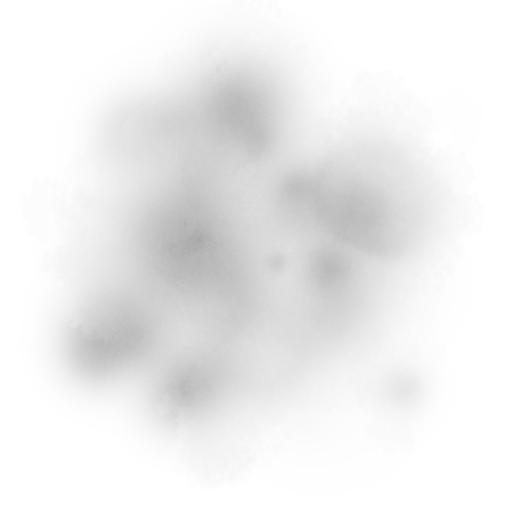
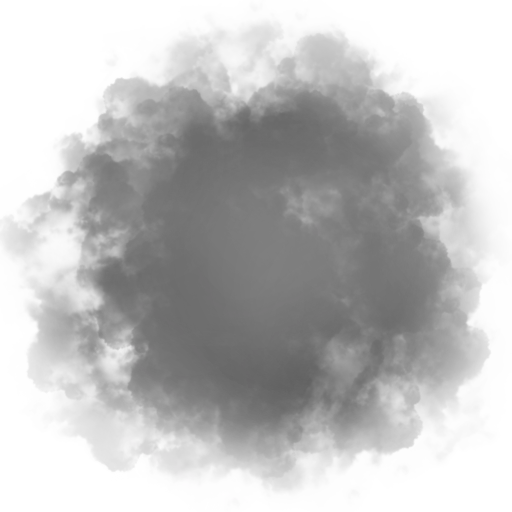
plume color by lifetime

diff --git a/code_plume/scenes/sources/smoke/smoke.cpp b/code_plume/scenes/sources/smoke/smoke.cpp
@@ -271,7 +271,7 @@ void scene_model::edit_smoke_layer_properties(unsigned int i, float& d_mass)
     float rho_new = mass_new/volume_new;
     float r_new = cbrt(volume_new/3.14);
     smoke_layers[i].thickness = r_new;
-    smoke_layers[i].lifespan -= dt;
+    smoke_layers[i].lifetime = smoke_layers[i].lifetime + dt;
 
 
     // new speed due to conservation of energy (old)
@@ -529,7 +529,7 @@ void scene_model::ground_falling_sphere_update(free_sphere_params& sphere, int i
 
     sphere.speed = v;
     sphere.center = p;
-    sphere.lifespan -= dt;
+    sphere.lifetime = sphere.lifetime + dt;
 
     if (!sphere.falling_disappeared) sphere_ground_collision(sphere, idx, frame_nb);
 }
@@ -882,7 +882,7 @@ void scene_model::update_free_spheres()
                 sphere_i.r = new_r;
                 sphere_i.relative_distance = norm(sphere_i.center-smoke_layers[closest_layer_id].center);
                 sphere_i.rho = smoke_layers[closest_layer_id].rho;
-                sphere_i.lifespan -= dt;
+                sphere_i.lifetime = sphere_i.lifetime + dt;
 
                 if (!sphere_i.stagnate && smoke_layers[closest_layer_id].theta >1)
                 {
@@ -1532,10 +1532,11 @@ void scene_model::display(std::map<std::string,GLuint>& shaders, scene_structure
             quad.uniform.transform.translation = new_translation;
             quad.uniform.transform.scaling = new_scaling*1.3;
             quad.uniform.color_alpha = 0.8+0.3f*(2*var-1.0f);
-           /* draw(quad, scene.camera, shaders["mesh"]);*/
-            int texNumber = j % 5;
+           
+            int texIndex = (int)(free_spheres[j].lifetime / 100);
+            if (texIndex > 4) texIndex = 4;
 
-            draw(quad, scene.camera, shaders["mesh"], smoke_textures[texNumber]);
+            draw(quad, scene.camera, shaders["mesh"], smoke_textures[texIndex]);
         }
         glDepthMask(true);
     }
@@ -2185,7 +2186,7 @@ void scene_model::set_gui_profiler(gui_structure& gui)
 
     //if (tracked_smoke)
     //{
-    //    std::string subsphere_count = "Tracked smoke lifespan: " + std::to_string(tracked_smoke->lifespan);
+    //    std::string subsphere_count = "Tracked smoke lifetime: " + std::to_string(tracked_smoke->lifetime);
     //    ImGui::Text(subsphere_count.c_str());
     //}
 

diff --git a/code_plume/scenes/sources/smoke/smokeLayer.hpp b/code_plume/scenes/sources/smoke/smokeLayer.hpp
@@ -12,11 +12,11 @@ struct subsphere_params
     vcl::vec3 center;
     float r;
     float size_ratio;
-    float lifespan;
+    float lifetime;
 
     subsphere_params()
     {
-        lifespan = 31 + (std::rand() % 30);
+        lifetime = 0;
     }
 };
 
@@ -30,7 +30,7 @@ struct free_sphere_params
     float mass;
     float rho;
     float relative_distance;
-    float lifespan;
+    float lifetime;
 
     // rotation informations
     float angular_speed;
@@ -67,7 +67,7 @@ struct free_sphere_params
         angle_vector = angle_normal;
         center = ring_center + r*angle_normal;
         rotation_axis = {-sin(angle_on_ring), cos(angle_on_ring),0};
-        lifespan = 31 + (std::rand() % 30);
+        lifetime = 0;
         angular_speed = speed/r;
         current_angle = 0;
         perturbation = 0;
@@ -80,7 +80,7 @@ struct free_sphere_params
     free_sphere_params(vcl::vec3 center, float r, float rho) : r(r), center(center), rho(rho), speed({ 0,0,0 }), angular_speed(0), rotation_axis({ 1,0,0 }), current_angle(0),
         angle_vector({ 0,1,0 }), mass(rho * 4. / 3. * 3.14 * r * r * r), size_factor(1.), falling_under_atm_rho(false), stagnate(false), stagnate_long(false), falling(true), falling_disappeared(false)
     {
-        lifespan = 31 + (std::rand() % 30);
+        lifetime = 0;
     }
 };
 
@@ -99,7 +99,7 @@ struct smoke_layer
     float temperature; // (Kelvin)
     float rho; // density (kg.m-3)
     float thickness; // (m)
-    float lifespan;
+    float lifetime;
 
     // identify state of layers
     bool rising;
@@ -127,7 +127,7 @@ struct smoke_layer
         rising(true), begin_falling(false), falling(false), plume(false), stagnates(false), stagnates_long(false), secondary_plume(secondary_plume) {
         if (norm(v) == v.z) theta_axis = vcl::vec3(1,0,0);
         else theta_axis = normalize(vcl::cross(v,vcl::vec3(0,0,1)));
-        lifespan = 31 + (std::rand() % 30);
+        lifetime = 0;
     }
 };
 

diff --git a/code_plume/out/build/scenes/sources/smoke/smoke.cpp b/code_plume/out/build/scenes/sources/smoke/smoke.cpp
@@ -1535,7 +1535,7 @@ void scene_model::display(std::map<std::string,GLuint>& shaders, scene_structure
            /* draw(quad, scene.camera, shaders["mesh"]);*/
             int texNumber = j % 5;
 
-            draw(quad, scene.camera, shaders["mesh"], smoke_textures[texNumber]);
+            draw(quad, scene.camera, shaders["mesh"], smoke_textures[texNumber], smoke_textures[0]);
         }
         glDepthMask(true);
     }
@@ -2107,7 +2107,7 @@ void scene_model::set_gui(gui_structure& gui)
 
 void scene_model::set_gui_playback(gui_structure& gui)
 {
-    ImGui::Begin("Playback", &gui.enabled["Playback"], ImVec2(64, 32), -1.0f, ImGuiWindowFlags_NoResize);
+    ImGui::Begin("Playback", &gui.enabled["Playback"], ImVec2(100, 74), -1.0f, ImGuiWindowFlags_NoResize);
 
     // Start and stop animation
     if (state == engine_state::stopped || state == engine_state::paused)

diff --git a/code_plume/out/build/x64-Debug/scenes/sources/smoke/smoke.cpp b/code_plume/out/build/x64-Debug/scenes/sources/smoke/smoke.cpp
@@ -1535,7 +1535,7 @@ void scene_model::display(std::map<std::string,GLuint>& shaders, scene_structure
            /* draw(quad, scene.camera, shaders["mesh"]);*/
             int texNumber = j % 5;
 
-            draw(quad, scene.camera, shaders["mesh"], smoke_textures[texNumber]);
+            draw(quad, scene.camera, shaders["mesh"], smoke_textures[texNumber], smoke_textures[0]);
         }
         glDepthMask(true);
     }
@@ -2107,7 +2107,7 @@ void scene_model::set_gui(gui_structure& gui)
 
 void scene_model::set_gui_playback(gui_structure& gui)
 {
-    ImGui::Begin("Playback", &gui.enabled["Playback"], ImVec2(64, 32), -1.0f, ImGuiWindowFlags_NoResize);
+    ImGui::Begin("Playback", &gui.enabled["Playback"], ImVec2(100, 74), -1.0f, ImGuiWindowFlags_NoResize);
 
     // Start and stop animation
     if (state == engine_state::stopped || state == engine_state::paused)

diff --git a/code_plume/scenes/sources/smoke/smoke.hpp b/code_plume/scenes/sources/smoke/smoke.hpp
@@ -126,6 +126,7 @@ struct scene_model : scene_base
     std::vector<free_sphere_params> stagnate_spheres;
     std::vector<free_sphere_params> falling_spheres;
     std::vector< std::vector<free_sphere_params> > falling_spheres_buffers;
+    std::vector<float> sphere_lifetime;
 
     terrain_structure terrain_struct;
     terrain_loader t_loader;
